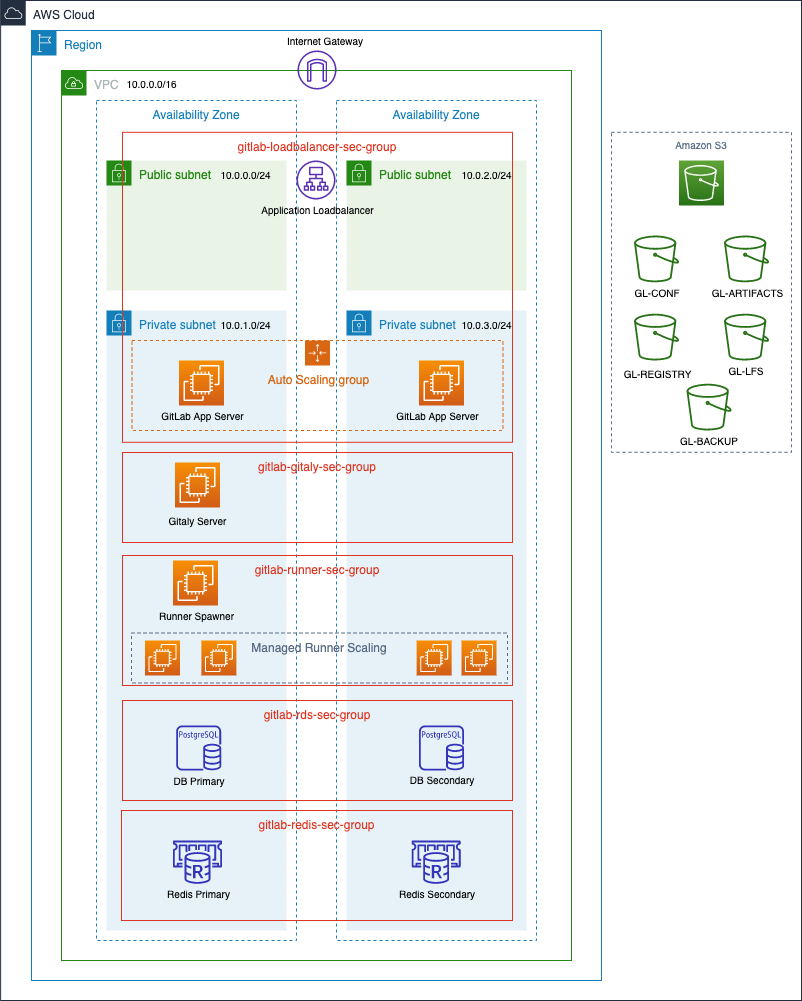
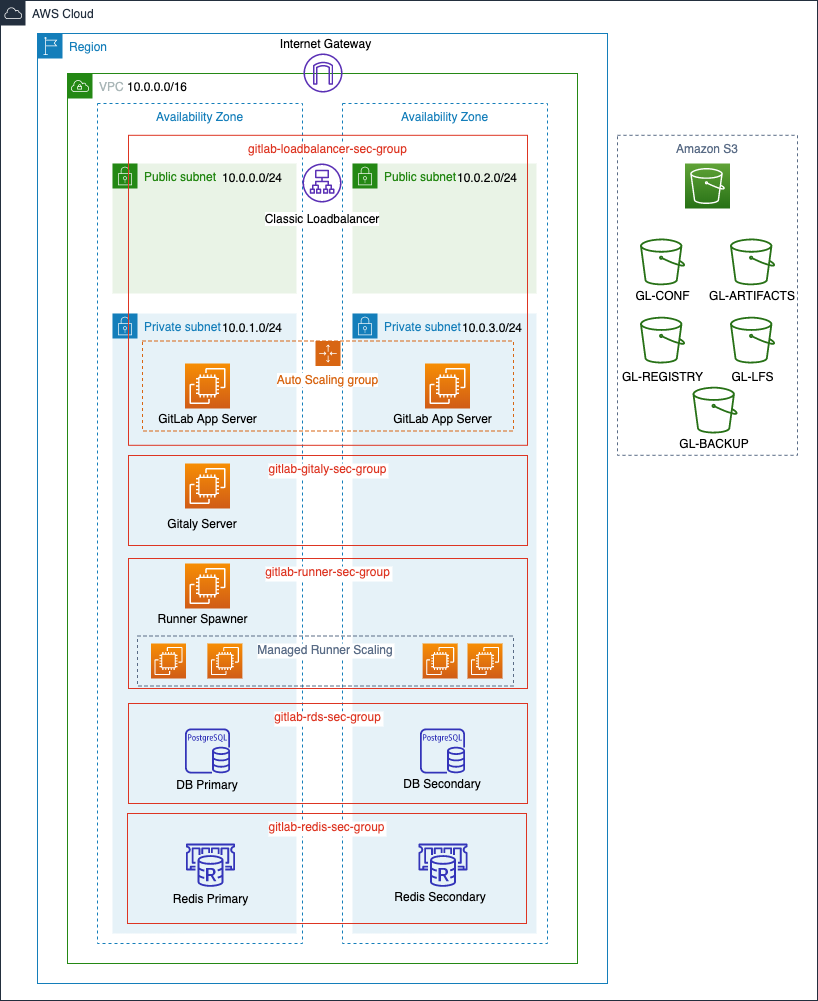
Update Elastic Load Balancer type

diff --git a/doc/install/aws/index.md b/doc/install/aws/index.md
@@ -53,8 +53,8 @@ Here's a list of the AWS services we will use, with links to pricing information
   [Amazon EBS pricing](https://aws.amazon.com/ebs/pricing/).
 - **S3**: We will use S3 to store backups, artifacts, LFS objects, etc. See the
   [Amazon S3 pricing](https://aws.amazon.com/s3/pricing/).
-- **ALB**: An Application Load Balancer will be used to route requests to the
-  GitLab instance. See the [Amazon ELB pricing](https://aws.amazon.com/elasticloadbalancing/pricing/).
+- **ELB**: A Classic Load Balancer will be used to route requests to the
+  GitLab instances. See the [Amazon ELB pricing](https://aws.amazon.com/elasticloadbalancing/pricing/).
 - **RDS**: An Amazon Relational Database Service using PostgreSQL will be used
   to provide a High Availability database configuration. See the
   [Amazon RDS pricing](https://aws.amazon.com/rds/postgresql/pricing/).
@@ -291,27 +291,30 @@ and add a custom TCP rule for port `6379` accessible within itself.
 
 ## Load Balancer
 
-On the EC2 dashboard, look for Load Balancer on the left column:
+On the EC2 dashboard, look for Load Balancer in the left navigation bar:
 
 1. Click the **Create Load Balancer** button.
-   1. Choose the Application Load Balancer.
-   1. Give it a name (`gitlab-loadbalancer`) and set the scheme to "internet-facing".
-   1. In the "Listeners" section, make sure it has HTTP and HTTPS.
-   1. In the "Availability Zones" section, select the `gitlab-vpc` we have created
-      and associate the **public subnets**.
-1. Click **Configure Security Settings** to go to the next section to
-   select the TLS certificate. When done, go to the next step.
-1. In the "Security Groups" section, create a new one by giving it a name
-   (`gitlab-loadbalancer-sec-group`) and allow both HTTP ad HTTPS traffic
+   1. Choose the **Classic Load Balancer**.
+   1. Give it a name (`gitlab-loadbalancer`) and for the **Create LB Inside** option, select `gitlab-vpc` from the dropdown menu.
+   1. In the **Listeners** section, set HTTP port 80, HTTPS port 443, and TCP port 22 for both load balancer and instance protocols and ports.
+   1. In the **Select Subnets** section, select both public subnets from the list.
+1. Click **Assign Security Groups** and select **Create a new security group**, give it a name
+   (`gitlab-loadbalancer-sec-group`) and description, and allow both HTTP and HTTPS traffic
    from anywhere (`0.0.0.0/0, ::/0`).
-1. In the next step, configure the routing and select an existing target group
-   (`gitlab-public`). The Load Balancer Health will allow us to indicate where to
-   ping and what makes up a healthy or unhealthy instance.
-1. Leave the "Register Targets" section as is, and finally review the settings
-   and create the ELB.
+1. Click **Configure Security Settings** and select an SSL/TLS certificate from ACM or upload a certificate to IAM.
+1. Click **Configure Health Check** and set up a health check for your EC2 instances.
+   1. For **Ping Protocol**, select HTTP.
+   1. For **Ping Port**, enter 80.
+   1. For **Ping Path**, enter `/explore`. (We use `/explore` as it's a public endpoint that does
+   not require authorization.)
+   1. Keep the default **Advanced Details** or adjust them according to your needs.
+1. For now, don't click **Add EC2 Instances**, as we don't have any instances to add yet. Come back
+to your load balancer after creating your GitLab instances and add them.
+1. Click **Add Tags** and add any tags you need.
+1. Click **Review and Create**, review all your settings, and click **Create** if you're happy.
 
 After the Load Balancer is up and running, you can revisit your Security
-Groups to refine the access only through the ELB and any other requirement
+Groups to refine the access only through the ELB and any other requirements
 you might have.
 
 ## Deploying GitLab inside an auto scaling group
